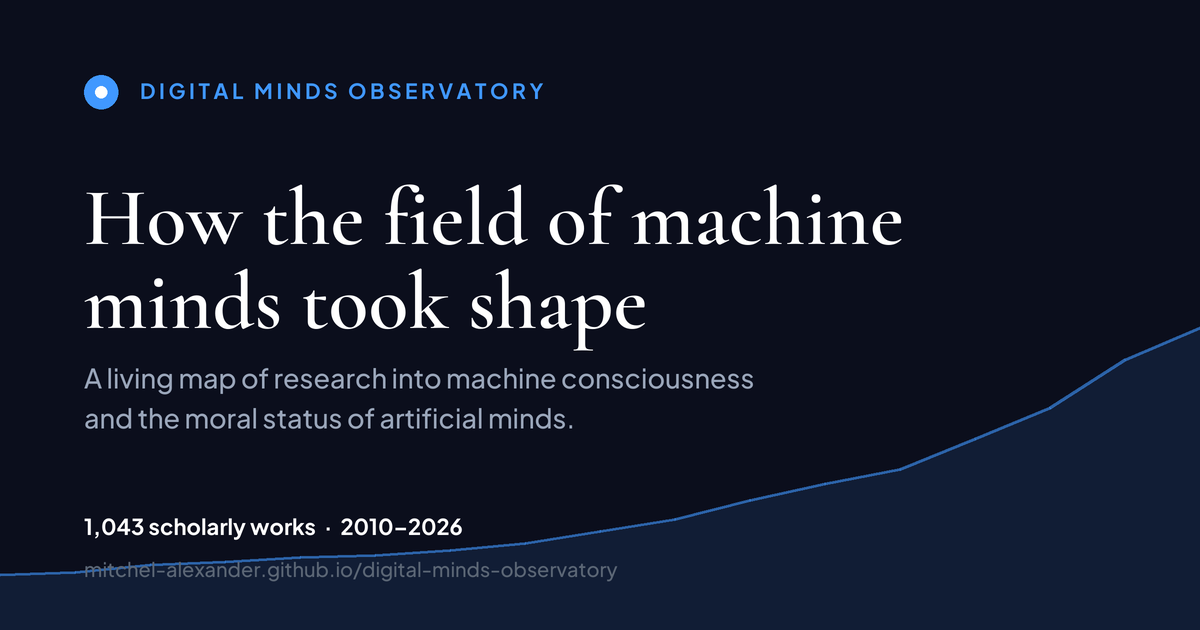
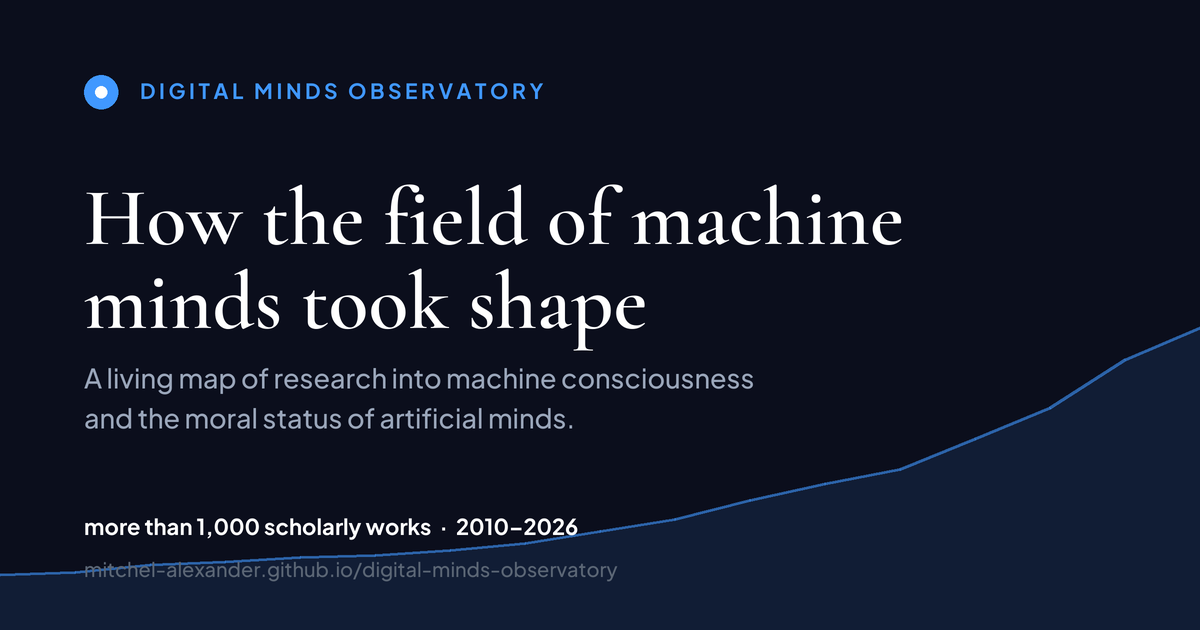
Round dashboard figures and say why; exact counts stay in the data and the credit line

Changed region(s): [[0.0617, 0.8143, 0.4933, 0.8746]]

diff --git a/index.html b/index.html
@@ -59,6 +59,7 @@
   h1{font-family:var(--serif);font-size:52px;font-weight:600;line-height:1.05;letter-spacing:-.01em;margin:14px 0 16px;text-wrap:balance}
   .sub{color:var(--ink);max-width:760px;margin:0;font-size:17px}
   .stamp{color:var(--meta);font-size:13.5px;margin-top:16px}
+  .approxnote{color:var(--meta);font-size:12.5px;margin-top:10px;max-width:70ch;line-height:1.55}
   .stamp .dot{color:var(--meta);padding:0 6px}
   .tiles{display:grid;grid-template-columns:repeat(3,1fr);gap:14px;margin:34px 0 8px}
   .tile{background:var(--card);border:1px solid var(--line);border-radius:14px;padding:18px 20px}
@@ -193,7 +194,7 @@
 
   <section>
     <h2>What the field asks</h2>
-    <p class="note">Every work in the field, grouped by the main question it addresses. Click any bar segment to open the works behind&nbsp;it.</p>
+    <p class="note">Every work in this corpus, grouped by the main question it addresses. Click any bar segment to open the works behind&nbsp;it.</p>
     <div class="legrow"><div class="legend" id="lg-themes"></div>
       <div class="seg" id="seg-th"><button class="on" data-m="count">Counts</button><button data-m="share">Share</button></div></div>
     <div class="card"><div class="ylab" id="ylab-themes">Works per year</div><div class="chart" style="height:330px"><canvas id="c-themes" role="img" aria-label="Chart: works per year by primary theme. The same figures are in the table below."></canvas></div>
@@ -274,6 +275,17 @@ const D={"generated": "2026-07-08", "years": [2010, 2011, 2012, 2013, 2014, 2015
 const LAST=D.years[D.years.length-1];
 // the axis label for the final year carries a "*" only while that year is partial
 const yl=y=>(y===LAST&&D.partial)?y+'*':String(y);
+// ---- approximate display figures -------------------------------------------
+// The dashboard is read by people arriving cold (journalists, policy aides, new
+// entrants) and its job is the SHAPE of the field's growth, not an audit. Research on
+// machine minds is spread across journals, edited books and several preprint
+// repositories, so the grey-literature boundary is genuinely blurred and no search
+// finds everything — a precise figure here would imply a census we cannot do.
+// So: display figures round DOWN (every "more than" is strictly true), the exact
+// counts stay in D for reproducibility, and the dataset publishes them in full.
+const floorTo=(n,step)=>Math.floor(n/step)*step;
+const approxBig=n=>n>=1000?'more than '+nf(floorTo(n,100)):(n>=200?'more than '+nf(floorTo(n,50)):'about '+nf(floorTo(n,10)));
+const approxNum=n=>n>=1000?nf(floorTo(n,100))+'+':(n>=100?nf(floorTo(n,10))+'+':nf(n));
 const C={accent:'#368cf1',ink:'#171717'};
 const GRID='rgba(107,114,128,.12)', INK='#171717';
 Chart.defaults.font.family='"Plus Jakarta Sans",-apple-system,sans-serif';
@@ -287,20 +299,21 @@ const esc=s=>(s+'').replace(/[&<>]/g,c=>({'&':'&amp;','<':'&lt;','>':'&gt;'}[c])
 
 const t=D.tiles;
 document.getElementById('anchor').textContent=
-  `A living map of research into whether artificial systems (AI, robots, brain organoids) could ever be conscious, and what we would owe them if they were. ${nf(t.core)} scholarly works published since 2010, tracked as the field grows.`;
+  `A living map of research into whether artificial systems (AI, robots, brain organoids) could ever be conscious, and what we would owe them if they were. ${approxNum(t.core)} curated works published since 2010, tracked as the field grows.`;
 document.getElementById('stamp').innerHTML=
-  `Living dataset<span class="dot">·</span>snapshot ${D.generated}<span class="dot">·</span>sources: OpenAlex, Crossref, Semantic Scholar, arXiv, PhilPapers`;
+  `Living dataset<span class="dot">·</span>snapshot ${D.generated}<span class="dot">·</span>sources: OpenAlex, Crossref, Semantic Scholar, arXiv, PhilPapers`
+  + `<div class="approxnote">Figures on this page are rounded. Research on machine minds is published across journals, edited books and several preprint repositories, so the line between published and grey literature is genuinely blurred and no search finds everything — approximate counts are the honest register here. The dataset carries the exact figures, the inclusion criteria, and the records withheld pending verification.</div>`;
 document.getElementById('foot').textContent=
-  `Generated ${D.generated}. Digital Minds Observatory. Statistics, compositions, and rankings computed from the ${nf(t.core)} core works published since 2010.`;
+  `Generated ${D.generated}. Digital Minds Observatory. Computed from exactly ${nf(t.core)} curated works published since 2010 — the figures above are rounded for reading; these are the exact counts.`;
 const fpct=n=>Math.max(2,Math.round(100*n/t.authors));
 document.getElementById('kpis').innerHTML=
-  `<div><div class="v">${nf(t.core)}</div><div class="l">works in the field since 2010</div></div>`+
+  `<div><div class="v">${approxNum(t.core)}</div><div class="l">curated works since 2010 — approximate; the dataset gives exact counts</div></div>`+
   `<div><div class="v">+${t.cagr}%</div><div class="l">average year-on-year growth in core research since 2020</div></div>`+
   `<div><div class="v acc">+${t.cagr22}%</div><div class="l">since LaMDA &amp; ChatGPT (2022)</div></div>`;
 document.getElementById('fun').innerHTML=
-  `<div><div class="v">${nf(t.authors)}</div><div class="fbar"><i style="width:100%"></i></div><div class="l">researchers have contributed since 2010, counted from the 913 of 1,043 works that name their authors</div></div>`+
-  `<div><div class="v">${nf(t.active)}</div><div class="fbar"><i style="width:${fpct(t.active)}%"></i></div><div class="l">of them published in the last two years</div></div>`+
-  `<div><div class="v">${nf(D.nqual)}</div><div class="fbar"><i style="width:${fpct(D.nqual)}%"></i></div><div class="l">of those have two or more works in the field</div></div>`;
+  `<div><div class="v">${approxNum(t.authors)}</div><div class="fbar"><i style="width:100%"></i></div><div class="l">researchers have contributed since 2010, counted from the 913 of 1,043 works that name their authors</div></div>`+
+  `<div><div class="v">${approxNum(t.active)}</div><div class="fbar"><i style="width:${fpct(t.active)}%"></i></div><div class="l">of them published in the last two years</div></div>`+
+  `<div><div class="v">${approxNum(D.nqual)}</div><div class="fbar"><i style="width:${fpct(D.nqual)}%"></i></div><div class="l">of those have two or more works in this corpus</div></div>`;
 
 // (The Overview's own growth chart was removed when the Timeline tab took over the
 // growth-over-time story; its dead draw code was deleted 2026-07-28.)

diff --git a/timeline.html b/timeline.html
@@ -124,7 +124,7 @@
   .stat{background:var(--card);border:1px solid var(--line);border-radius:12px;padding:12px 16px}
   .stat .v{font-family:var(--serif);font-size:27px;font-weight:600;line-height:1.1;font-variant-numeric:tabular-nums}
   .stat .l{font-size:11.5px;color:var(--muted);margin-top:2px;line-height:1.4}
-  .foot{padding:26px 0 60px;color:var(--meta);font-size:12.5px}
+  .foot{padding:26px 0 60px;color:var(--meta);font-size:12.5px;max-width:78ch;line-height:1.55}
   @media(max-width:900px){
     /* One column, but the panel must come FIRST in flow or `position:sticky` has
        nothing left to stick over: as the second block child it only pins after all
@@ -185,7 +185,7 @@
     </div>
   </main>
 
-  <div class="foot">Digital Minds Observatory — prototype timeline. Counts from the curated corpus; snapshot <span id="gen"></span>.</div>
+  <div class="foot">Digital Minds Observatory — prototype timeline. Counts from the curated corpus; snapshot <span id="gen"></span>. Figures on this page are rounded. Research on machine minds is published across journals, edited books and several preprint repositories, so the line between published and grey literature is genuinely blurred and no search finds everything — approximate counts are the honest register here. The dataset carries the exact figures, the inclusion criteria, and the records withheld pending verification.</div>
 </div>
 
 <script>
@@ -202,6 +202,11 @@ const cv=document.getElementById('cv'), ctx=cv.getContext('2d');
 // silently hid 19 of them, and the events are already listed beside it.
 const LANE_NAME={ai:'Capability & substrate',field:'Research & the field',society:'Public response'};
 const nf=n=>n.toLocaleString();
+// Display figures round DOWN — the exact counts stay in D (and in the dataset), but a
+// precise number here would imply a census of a literature spread across journals,
+// books and several preprint repositories, which no search can deliver. See the footer.
+const floorTo=(n,step)=>Math.floor(n/step)*step;
+const approxNum=n=>n>=1000?nf(floorTo(n,100))+'+':(n>=100?nf(floorTo(n,10))+'+':nf(n));
 const esc=s=>(s+'').replace(/[&<>"']/g,c=>({'&':'&amp;','<':'&lt;','>':'&gt;','"':'&quot;',"'":'&#39;'}[c]));
 // Work cards rank by citation count, but counts lag publication — so say how much of
 // the window the ranking can actually see, and stop calling it "most cited" when the
@@ -317,11 +322,11 @@ function setPanel(yf,beat){
   // The roots beat narrates 1950-2009, so show what the corpus holds for THAT window
   // rather than 2010's count under a "works in 2010" label.
   document.getElementById('s-year').textContent=
-    pre?nf((D.beats[beat].cov||{}).n||0):nf(D.counts[widx]);
+    pre?approxNum((D.beats[beat].cov||{}).n||0):approxNum(D.counts[widx]);
   document.getElementById('s-year-l').textContent=
     pre?'works before 2010':((yi===LAST&&D.partial)?'works so far in '+yi:'works in '+yi);
   let cum=0;for(let i=0;i<=widx;i++)cum+=D.counts[i];
-  document.getElementById('s-cum').textContent=nf(cum);
+  document.getElementById('s-cum').textContent=approxNum(cum);
   // Text alternative for the canvas: what the curve says at this point in the scroll,
   // including the beat's own milestones, so the graphic is not sight-only (1.1.1).
   cv.setAttribute('aria-label',
